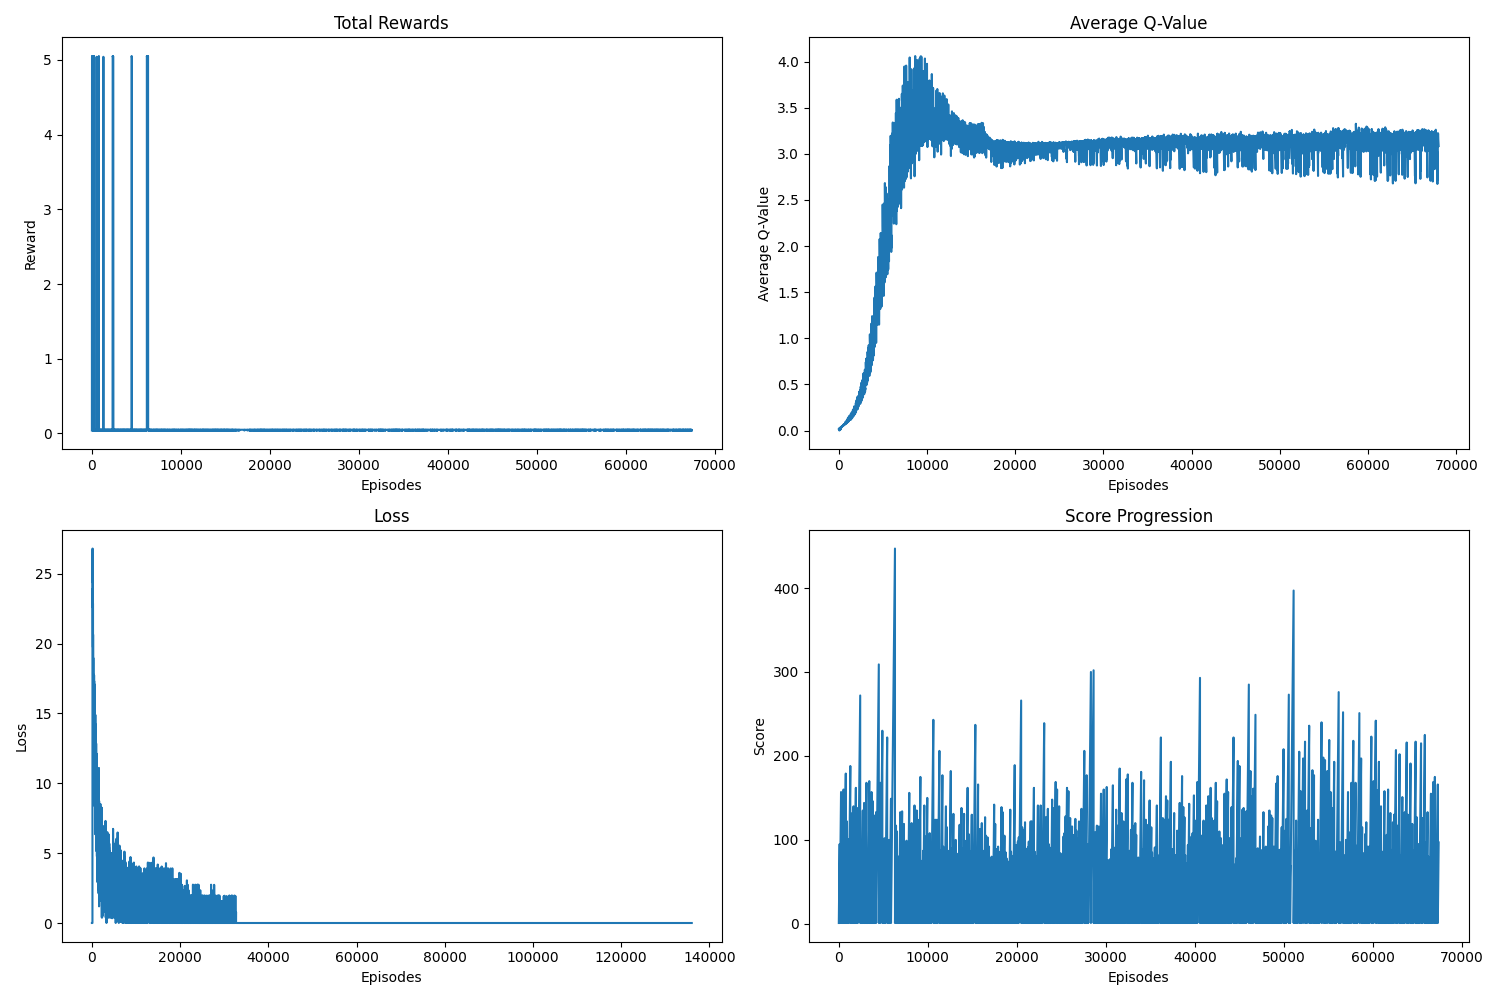
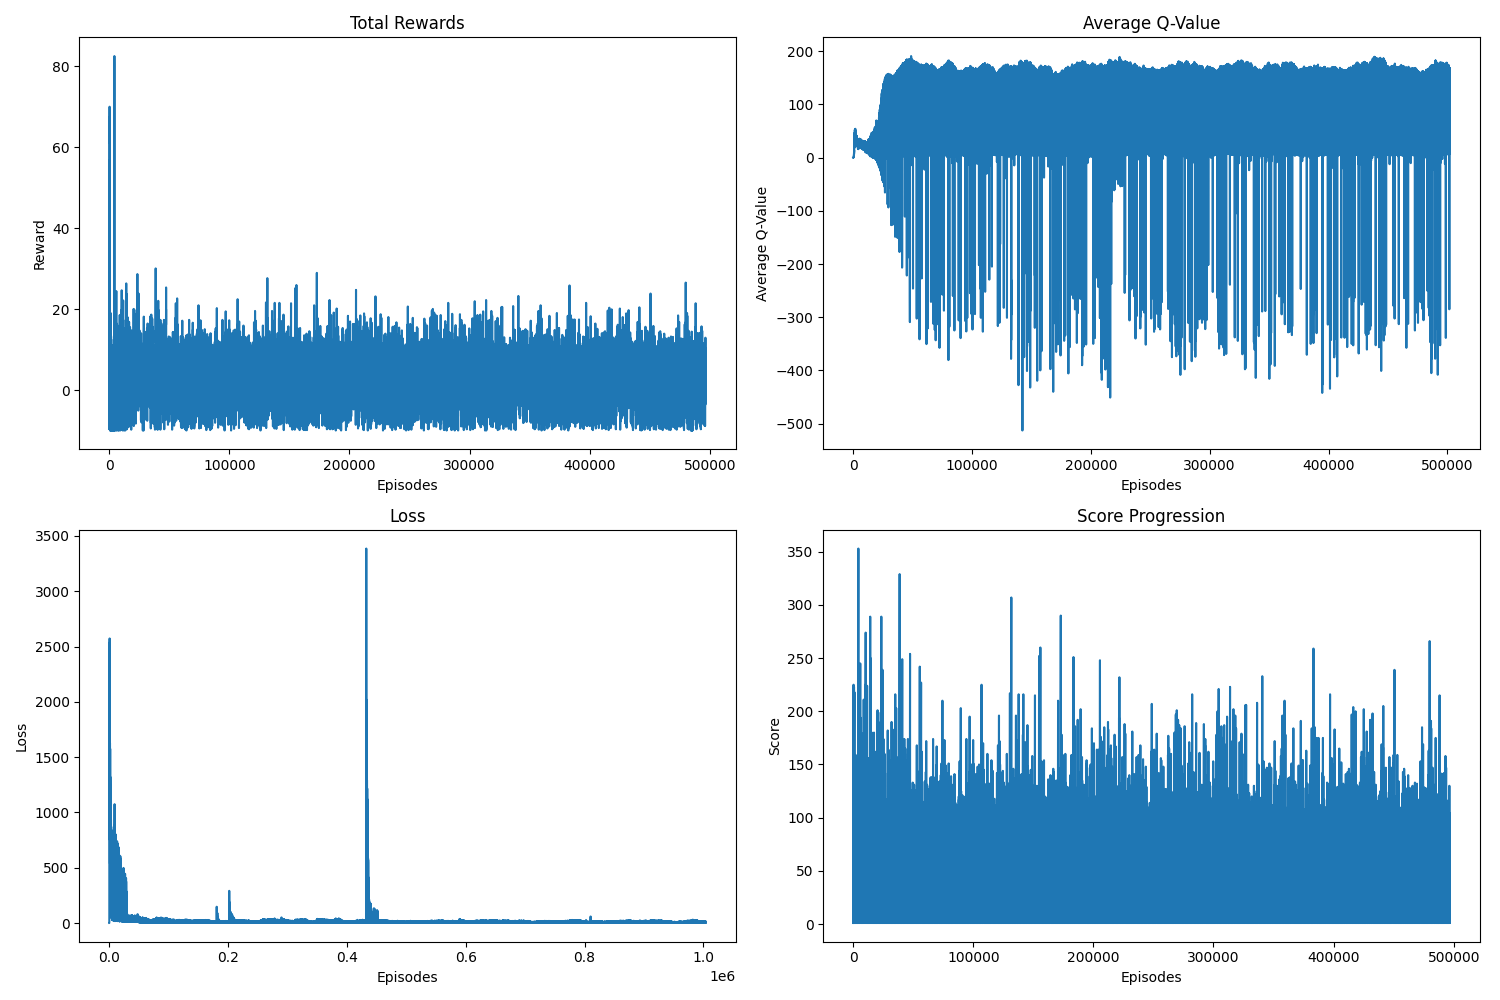
AI-Model 1.0 Update

diff --git a/main.py b/main.py
@@ -47,17 +47,16 @@ high_score = 0
 game_over = False
 
 # Replay buffer
-#replay_memory = deque(maxlen=1000)
 replay_memory = deque(maxlen=10000)
 batch_size = 64
-gamma = 0.99  # Discount factor
+gamma = 0.98  # Discount factor
 
 # Reward parameters (constants for easy adjustment)
-BASE_REWARD = 0.05       # Base reward for survival
-OBSTACLE_CROSS_REWARD = 1.0  # Reward for crossing an obstacle
-HIGHSCORE_REWARD = 5.0   # Reward for beating the high score
-COLLISION_PENALTY = -2.0 # Penalty for collision
-JUMP_PENALTY = -0.01     # Penalty for excessive jumping
+BASE_REWARD = 0.1       # Base reward for survival
+OBSTACLE_CROSS_REWARD = 10.0  # Reward for crossing an obstacle
+HIGHSCORE_REWARD = 50.0    # Reward for beating the high score
+COLLISION_PENALTY = -50.0  # Penalty for collision
+JUMP_PENALTY = -5.0        # Penalty for excessive jumping
 
 # Neural network
 class QNetwork(nn.Module):
@@ -78,7 +77,7 @@ class QNetwork(nn.Module):
 
 # Initialize model and optimizer
 model = QNetwork()
-optimizer = optim.Adam(model.parameters(), lr=0.0001)
+optimizer = optim.Adam(model.parameters(), lr=0.001)
 criterion = nn.MSELoss()
 
 # Pygame screen
@@ -118,12 +117,13 @@ def select_action(state, epsilon):
 
 # Restart game
 def restart_game():
-    global player_y, obstacles, score, game_over, is_jumping
+    global player_y, obstacles, score, game_over, is_jumping, steps
     player_y = HEIGHT - player_size * 2
     obstacles = []
     score = 0
     game_over = False
     is_jumping = False
+    steps = 0  # Zurücksetzen der Schritte am Anfang jeder Episode
 
 # Train the model
 def train_model():
@@ -161,18 +161,33 @@ def check_collision(player_rect, obstacles):
             return True
     return False
 
-# Calculate reward
-def calculate_reward(player_rect, prev_obstacles, current_obstacles, score, high_score):
-    reward = BASE_REWARD  # Base reward for survival
+# Check for the distance to the next obstacle
+def distance_to_next_obstacle(player_x, obstacles):
+    if len(obstacles) > 0:
+        # Calculate the distance from the player to the first obstacle
+        next_obstacle = obstacles[0]
+        return next_obstacle.x - player_x
+    return float('inf')  # If no obstacle, return a large value   
 
-    # Check if the obstacle was crossed
+# Calculate reward including context-aware jump penalty
+def calculate_reward(player_rect, prev_obstacles, current_obstacles, score, high_score, steps, action, distance_to_obstacle):
+    reward = 0  # Start with 0 reward
+
+    # Base reward for survival, scaled by steps
+    reward += BASE_REWARD * steps
+
+    # Reward for crossing an obstacle
     for prev_obstacle in prev_obstacles:
         if prev_obstacle not in current_obstacles:
-            reward += OBSTACLE_CROSS_REWARD  # Reward for crossing an obstacle
+            reward += OBSTACLE_CROSS_REWARD
 
-    # Reward for beating the high score
+    # High score reward
     if score > high_score:
-        reward += HIGHSCORE_REWARD  # Reward for beating the high score
+        reward += HIGHSCORE_REWARD
+
+    # Context-aware jump penalty: Only apply if the player jumps with no obstacle nearby
+    if action == 1 and distance_to_obstacle > player_size * 2:  # Jump penalty if no nearby obstacle
+        reward += JUMP_PENALTY
 
     return reward
 
@@ -208,7 +223,7 @@ def save_plots():
     print("Diagrams saved as 'training_progress.png'.")
 
 # Main game loop
-num_epochs = 200000
+num_epochs = 2000000
 is_jumping = False
 jump_height = 100  # Fixed jump height
 jump_velocity = -15  # Initial velocity for the jump
@@ -220,7 +235,10 @@ avg_q_values = []
 losses = []
 total_scores = []  # Add score progression
 epsilon = 1.0  # Starting value for epsilon
+epsilon_decay = 0.9998  # Epsilon decay rate
+min_epsilon = 0.01  # Minimum epsilon value
 successful_episodes = 0  # Successful episodes
+steps = 0  # Number of steps survived
 
 for epoch in range(num_epochs):
     try:
@@ -239,7 +257,13 @@ for epoch in range(num_epochs):
                 sys.exit()
 
         if not game_over:
+            steps += 1  # Increase steps
             state = normalize_state(player_y, player_size, obstacles)
+
+            # Calculate distance to the next obstacle
+            distance_to_obstacle = distance_to_next_obstacle(player_x, obstacles)
+
+            # Select action
             action = select_action(state, epsilon)
 
             # Average Q-value for the current state-action pair
@@ -264,18 +288,14 @@ for epoch in range(num_epochs):
         else:
             player_y = HEIGHT - ground_height - player_size
 
-
         # Generate obstacles
         if random.randint(0, obstacle_frequency) == 0:
             if not obstacles or WIDTH - obstacles[-1].x >= min_obstacle_distance:
                 obstacle_x = WIDTH
 
-                # Obstacle width now based on up to 50% of jump height
+                # Obstacle width and height
                 obstacle_width = random.randint(20, int(jump_height * 0.5))
-                
-                # Obstacle height now based on up to 80% of jump height
                 obstacle_height = random.randint(20, int(jump_height * 0.8))
-                
                 obstacle_y = HEIGHT - ground_height - obstacle_height
                 obstacles.append(pygame.Rect(obstacle_x, obstacle_y, obstacle_width, obstacle_height))
 
@@ -286,7 +306,12 @@ for epoch in range(num_epochs):
         # Collision detection
         player_rect = pygame.Rect(player_x, player_y, player_size, player_size)
         next_state = normalize_state(player_y, player_size, obstacles)
-        reward = calculate_reward(player_rect, prev_obstacles, obstacles, score, high_score)
+        
+        # Calculate distance to the next obstacle
+        distance_to_obstacle = distance_to_next_obstacle(player_x, obstacles)
+        
+        # Calculate reward
+        reward = calculate_reward(player_rect, prev_obstacles, obstacles, score, high_score, steps, action, distance_to_obstacle)
 
         if check_collision(player_rect, obstacles):
             game_over = True
@@ -305,7 +330,7 @@ for epoch in range(num_epochs):
             if score > high_score:
                 high_score = score
             reward += HIGHSCORE_REWARD
-            replay_memory.append((state, action, reward, next_state, game_over))
+            store_experience(state, action, reward, next_state, game_over)
 
         obstacles = [obstacle for obstacle in obstacles if obstacle.x + obstacle.width > 0]
 
@@ -328,19 +353,19 @@ for epoch in range(num_epochs):
             game_over_text = font.render(f"Game Over! Score: {score}", True, COLORS['WHITE'])
             screen.blit(game_over_text, (WIDTH // 2 - game_over_text.get_width() // 2, HEIGHT // 3))
             pygame.display.flip()
-            pygame.time.wait(1000)
+            pygame.time.wait(1)
             restart_game()
 
         pygame.display.flip()
         clock.tick(FPS)
 
-        #epsilon = max(0.01, epsilon * 0.995)
-        epsilon = max(0.01, epsilon * 0.9995)
+        epsilon = max(min_epsilon, epsilon * epsilon_decay)
 
         if epoch % 1000 == 0:
             save_plots()
 
     except Exception as e:
-        print(f"Error in epoch {epoch}: {e}")
+        print(f"Error during epoch {epoch}: {e}")
+        break
 
 pygame.quit()
